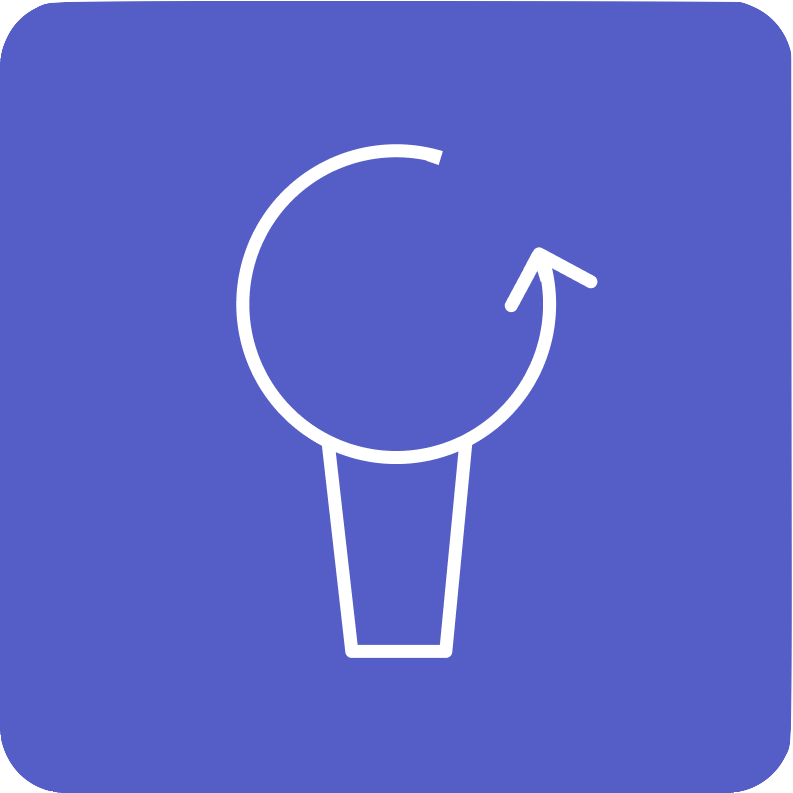
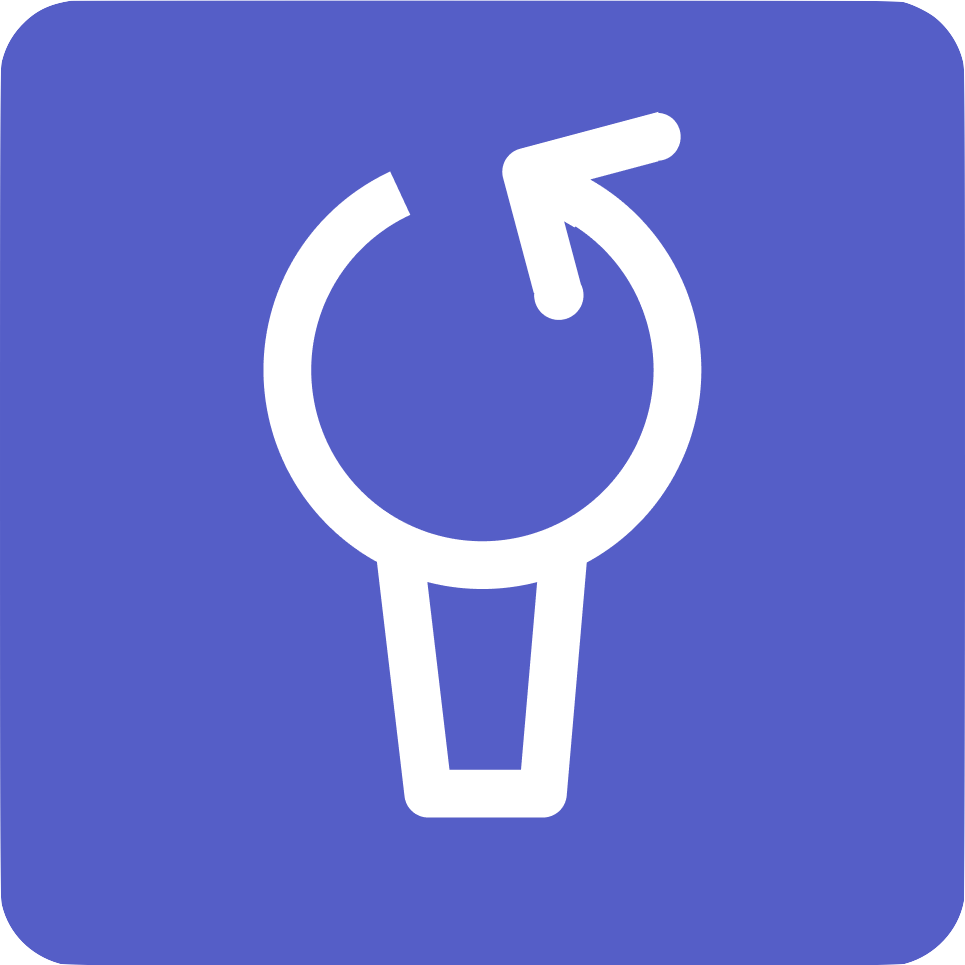
update navbar

diff --git a/hack-harvard/src/components/Navbar.tsx b/hack-harvard/src/components/Navbar.tsx
@@ -4,8 +4,9 @@ export function Navbar() {
     return (
         <nav className="relative w-screen flex flex-wrap items-center justify-between py-3 bg-indigo-600 text-gray-500 hover:text-gray-700 focus:text-gray-700 shadow-lg">
         <div className="container-fluid w-full flex flex-wrap items-center justify-between px-6">
-            <div className="container-fluid">
-            <a className="text-xl text-white font-semibold" href="#">Lecture Capture AI</a>
+            <div className="container-fluid" id="navbar_recap">
+            
+            <a className="text-xl text-white font-semibold" href="#"><img src="/src/assets/recap_transparent.png" id="navbaricon"></img>Recap</a>
             </div>
             <HomeButton />
         </div>

diff --git a/hack-harvard/src/App.css b/hack-harvard/src/App.css
@@ -34,3 +34,13 @@
 .read-the-docs {
   color: #888;
 }
+
+#navbar_recap {
+  white-space: nowrap;
+}
+
+#navbar_recap img {
+  height: 1.75rem;
+  float: left;
+  margin-right: 15px;
+}
